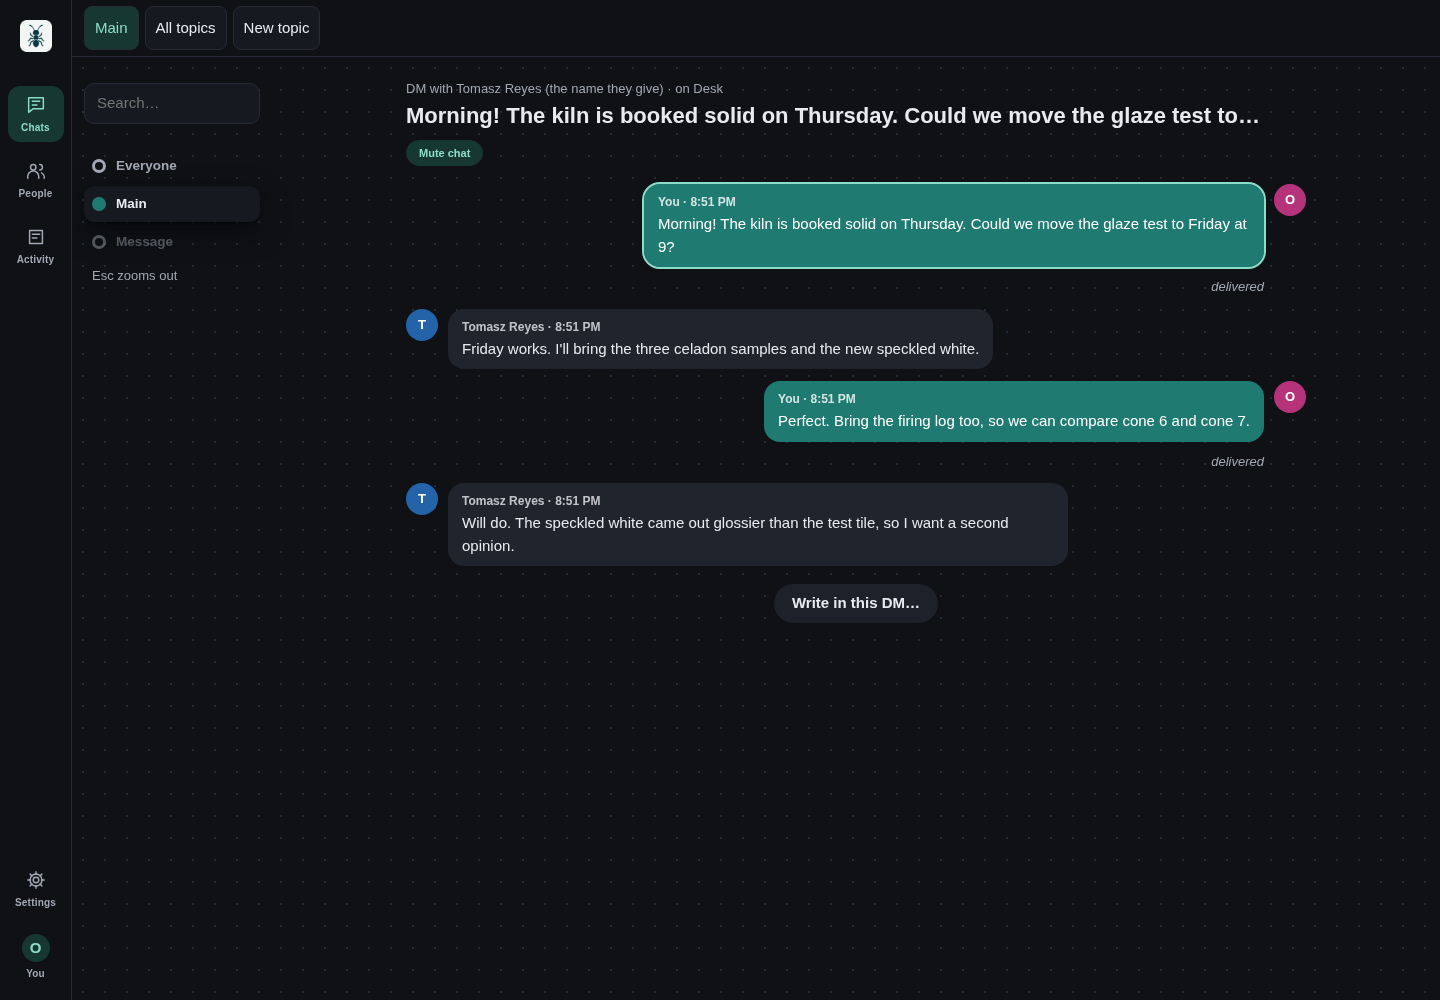
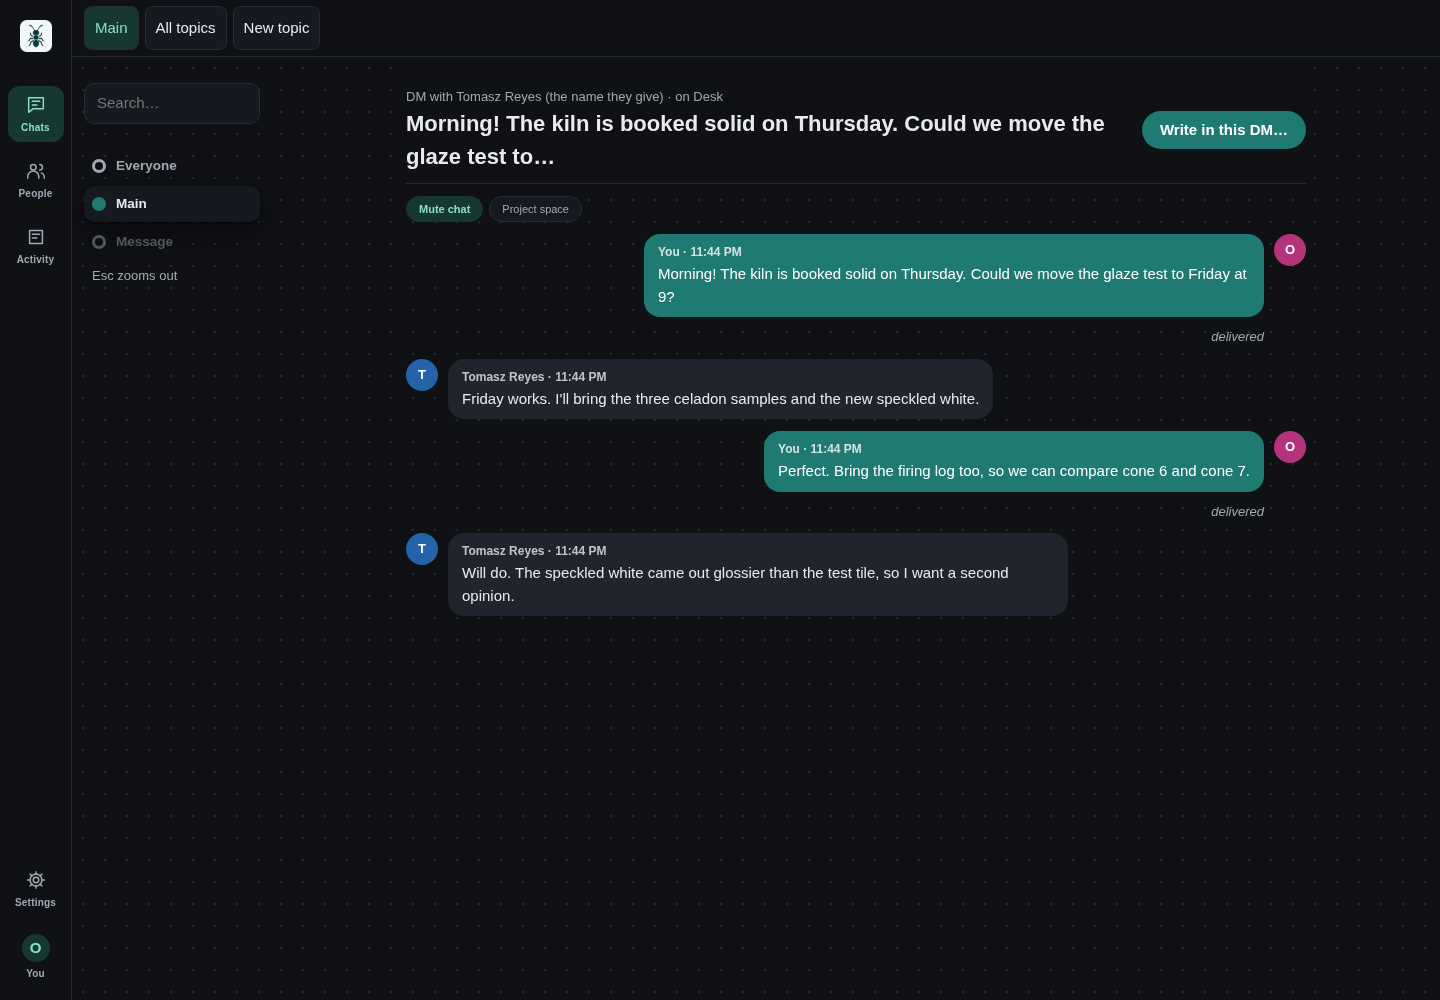
Keep Zoom writing reachable through long histories and search redraws
Move the existing Write action into the sticky chat header in DM and device conversations, and reattach its single resize observer after search redraws. Verify touch reach, exact send targets, replies and focus padding against real long histories.

Changed region(s): [[0.2812, 0.062, 0.9062, 0.62]]

diff --git a/published/zoom/style.css b/published/zoom/style.css
@@ -803,7 +803,12 @@ button.reaction { cursor: pointer; }
 .mc.mine .narr { text-align: right; }
 .narr.running::after { content: " ●"; color: var(--accent); }
 .mc > .decide { margin-left: 42px; width: auto; }
-.zoom-write { margin-top: 18px; display: flex; justify-content: center; }
+/* A chat's header (its title and Write) stays at the top while a long
+   history scrolls under it, so writing is in reach on arrival and anywhere. */
+.zoom-chat-head { position: sticky; top: -22px; z-index: 2; flex-wrap: wrap; justify-content: space-between; gap: 8px 14px; margin: -22px 0 12px; padding: 30px 0 10px; background: var(--canvas); border-bottom: 1px solid var(--line); } /* it covers the scroller's top padding too: no history shows above it */
+.zoom-chat-title { flex: 1 1 9em; min-width: 0; }
+.zoom-write { display: flex; flex: 0 1 auto; justify-content: flex-end; max-width: 100%; }
+.zoom-write .btn { text-align: center; }
 .zoom-message { width: min(720px, 100%); display: grid; gap: 10px; background: var(--surface); border: 1px solid var(--line); border-radius: 18px; padding: 20px 22px; box-shadow: var(--shadow); }
 .zoom-message .meta { padding: 0; align-items: center; }
 .zoom-message details.tech summary { color: var(--muted); }
@@ -813,6 +818,9 @@ button.reaction { cursor: pointer; }
 .zoom-state .conv { display: none; }
 .zoom-state .side { width: 100%; }
 @media (max-width: 760px) {
+  .zoom-chat-head { top: -12px; margin-top: -12px; padding-top: 20px; }
+  .zoom-chat-head h2 { font-size: 18px; display: -webkit-box; -webkit-line-clamp: 2; -webkit-box-orient: vertical; overflow: hidden; }
+  .zoom-chat-head .hint { white-space: nowrap; overflow: hidden; text-overflow: ellipsis; }
   .zoom-layer { grid-template-columns: minmax(0, 1fr); grid-template-rows: auto minmax(0, 1fr); }
   .zoom-side { padding: 10px 12px 0; gap: 8px; }
   .ladder { flex-direction: row; gap: 0; }
@@ -897,15 +905,15 @@ button.reaction { cursor: pointer; }
 .wrap-anywhere{overflow-wrap:anywhere}
 .copy-link{display:block;overflow-wrap:anywhere;user-select:all}
 
-/* A chat's own controls (mute) in the zoom chat header; the classic header is not shown in Zoom. */
-.zoom-chips { margin: 8px 0 0; justify-content: flex-start; }
+/* A chat's own controls (mute, Project space) below the zoom chat header; the classic header is not shown in Zoom. */
+.zoom-chips { margin: 0 0 12px; justify-content: flex-start; }
 .zoom-chips:empty { display: none; }
 
 /* Touch (v0.8.26): message actions, list-heading actions and zoom-level
    disclosures are at least 44px to tap on a phone or any touch screen. */
 @media (max-width: 760px), (pointer: coarse) {
-  .msg .foot .text-btn, .msg .foot summary, .result-head .text-btn, .agent-node-dms .text-btn, .person-cluster details > summary, .zoom-message summary, .zoom-message .text-btn { min-height: 44px; min-width: 44px; display: inline-flex; align-items: center; justify-content: center; }
+  .msg .foot .text-btn, .msg .foot summary, .result-head .text-btn, .agent-node-dms .text-btn, .device-row .text-btn, .person-cluster details > summary, .zoom-message summary, .zoom-message .text-btn { min-height: 44px; min-width: 44px; display: inline-flex; align-items: center; justify-content: center; }
   .react-pick > summary { width: 44px; height: 44px; }
-  .settings-tabs [role=tab], .topics-bar button, .peer-chip, .zoom-write .btn, .zoom-message .act, .ladder .rung { min-height: 44px; min-width: 44px; }
+  .settings-tabs [role=tab], .topics-bar button, .peer-chip, .zoom-write .btn, .zoom-message .act, .ladder .rung, .thread-row { min-height: 44px; min-width: 44px; }
   #settings-close, #back, #conversation-details { min-width: 44px; min-height: 44px; }
 }

diff --git a/skins/zoom/src/style.css b/skins/zoom/src/style.css
@@ -803,7 +803,12 @@ button.reaction { cursor: pointer; }
 .mc.mine .narr { text-align: right; }
 .narr.running::after { content: " ●"; color: var(--accent); }
 .mc > .decide { margin-left: 42px; width: auto; }
-.zoom-write { margin-top: 18px; display: flex; justify-content: center; }
+/* A chat's header (its title and Write) stays at the top while a long
+   history scrolls under it, so writing is in reach on arrival and anywhere. */
+.zoom-chat-head { position: sticky; top: -22px; z-index: 2; flex-wrap: wrap; justify-content: space-between; gap: 8px 14px; margin: -22px 0 12px; padding: 30px 0 10px; background: var(--canvas); border-bottom: 1px solid var(--line); } /* it covers the scroller's top padding too: no history shows above it */
+.zoom-chat-title { flex: 1 1 9em; min-width: 0; }
+.zoom-write { display: flex; flex: 0 1 auto; justify-content: flex-end; max-width: 100%; }
+.zoom-write .btn { text-align: center; }
 .zoom-message { width: min(720px, 100%); display: grid; gap: 10px; background: var(--surface); border: 1px solid var(--line); border-radius: 18px; padding: 20px 22px; box-shadow: var(--shadow); }
 .zoom-message .meta { padding: 0; align-items: center; }
 .zoom-message details.tech summary { color: var(--muted); }
@@ -813,6 +818,9 @@ button.reaction { cursor: pointer; }
 .zoom-state .conv { display: none; }
 .zoom-state .side { width: 100%; }
 @media (max-width: 760px) {
+  .zoom-chat-head { top: -12px; margin-top: -12px; padding-top: 20px; }
+  .zoom-chat-head h2 { font-size: 18px; display: -webkit-box; -webkit-line-clamp: 2; -webkit-box-orient: vertical; overflow: hidden; }
+  .zoom-chat-head .hint { white-space: nowrap; overflow: hidden; text-overflow: ellipsis; }
   .zoom-layer { grid-template-columns: minmax(0, 1fr); grid-template-rows: auto minmax(0, 1fr); }
   .zoom-side { padding: 10px 12px 0; gap: 8px; }
   .ladder { flex-direction: row; gap: 0; }
@@ -897,15 +905,15 @@ button.reaction { cursor: pointer; }
 .wrap-anywhere{overflow-wrap:anywhere}
 .copy-link{display:block;overflow-wrap:anywhere;user-select:all}
 
-/* A chat's own controls (mute) in the zoom chat header; the classic header is not shown in Zoom. */
-.zoom-chips { margin: 8px 0 0; justify-content: flex-start; }
+/* A chat's own controls (mute, Project space) below the zoom chat header; the classic header is not shown in Zoom. */
+.zoom-chips { margin: 0 0 12px; justify-content: flex-start; }
 .zoom-chips:empty { display: none; }
 
 /* Touch (v0.8.26): message actions, list-heading actions and zoom-level
    disclosures are at least 44px to tap on a phone or any touch screen. */
 @media (max-width: 760px), (pointer: coarse) {
-  .msg .foot .text-btn, .msg .foot summary, .result-head .text-btn, .agent-node-dms .text-btn, .person-cluster details > summary, .zoom-message summary, .zoom-message .text-btn { min-height: 44px; min-width: 44px; display: inline-flex; align-items: center; justify-content: center; }
+  .msg .foot .text-btn, .msg .foot summary, .result-head .text-btn, .agent-node-dms .text-btn, .device-row .text-btn, .person-cluster details > summary, .zoom-message summary, .zoom-message .text-btn { min-height: 44px; min-width: 44px; display: inline-flex; align-items: center; justify-content: center; }
   .react-pick > summary { width: 44px; height: 44px; }
-  .settings-tabs [role=tab], .topics-bar button, .peer-chip, .zoom-write .btn, .zoom-message .act, .ladder .rung { min-height: 44px; min-width: 44px; }
+  .settings-tabs [role=tab], .topics-bar button, .peer-chip, .zoom-write .btn, .zoom-message .act, .ladder .rung, .thread-row { min-height: 44px; min-width: 44px; }
   #settings-close, #back, #conversation-details { min-width: 44px; min-height: 44px; }
 }

diff --git a/skins/zoom/README.md b/skins/zoom/README.md
@@ -38,6 +38,7 @@ From the owner's review ("can't reach settings", "can't even enter the message m
 - Closing the Project space and opening it again in the same chat shows it again (it stayed empty).
 - On a phone or any touch screen, message actions, list-heading actions, settings tabs and close, topic buttons and Back are at least 44px to tap.
 - The blank 56px band under the interface is gone: it was kept free for a host control that now sits above every skin.
+- Write is in the chat's header, in a DM, a group and a device conversation, and the header stays at the top while the history scrolls: with hundreds of messages it is in reach the moment the chat opens and anywhere in it (it used to sit after the last message). Keyboard focus and scrolling into view stop below the header. On a phone, a person's device-conversation button and conversation rows are 44px to tap.
 
 ## Provenance
 
